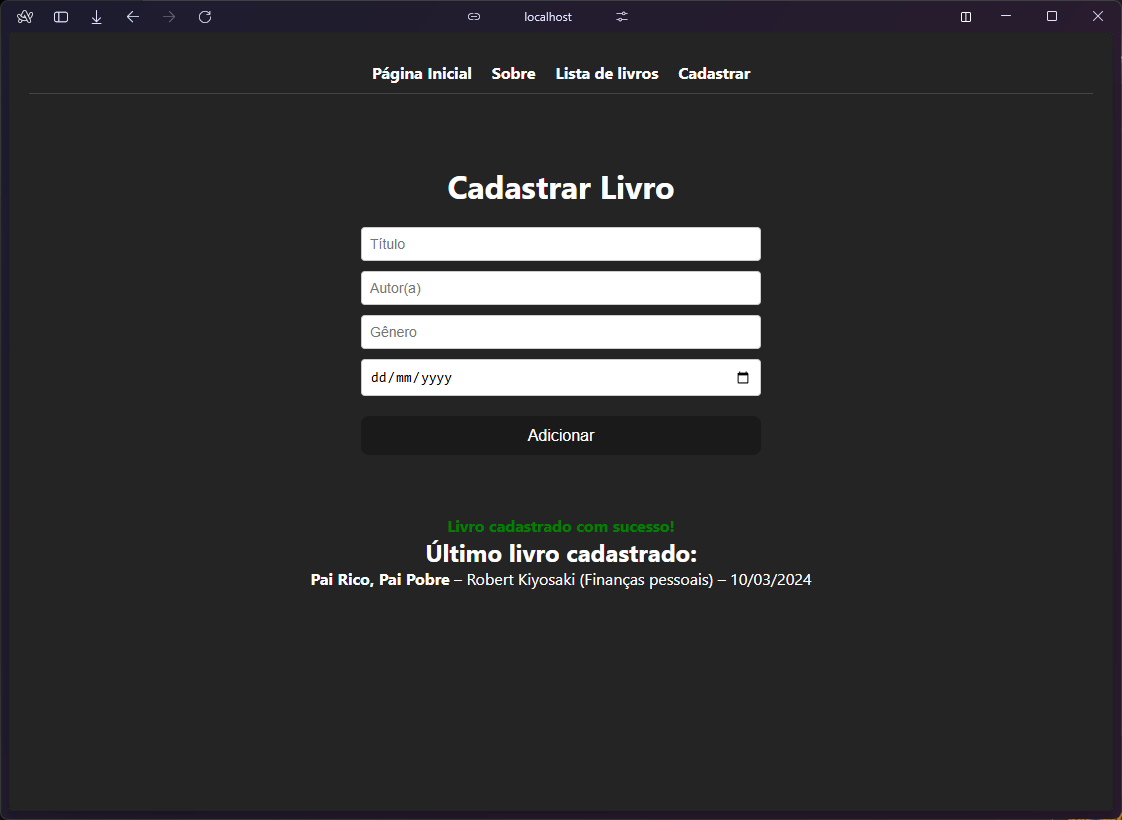
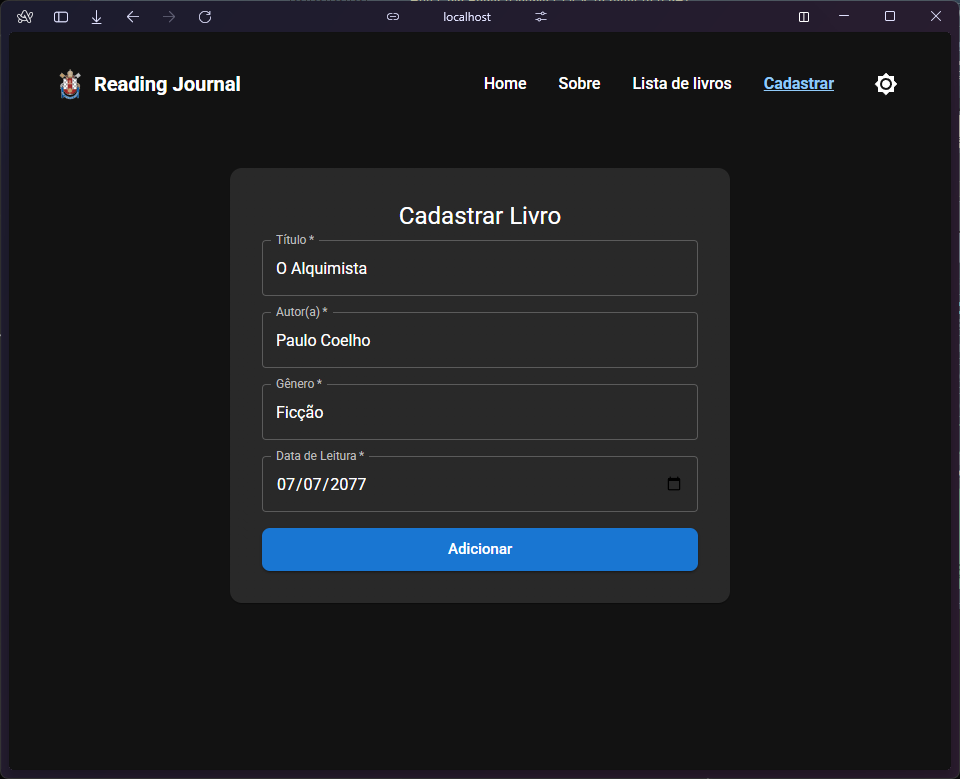
📝 docs: atualiza README com melhorias na descrição do projeto e funcionalidades

diff --git a/README.md b/README.md
@@ -1,7 +1,7 @@
 # Reading Journal 📚
 
 Este é um projeto desenvolvido para a **Fase 2** da disciplina de **Desenvolvimento de Sistemas Frontend** do curso de Análise e Desenvolvimento de Sistemas da PUCRS.  
-O objetivo foi criar um CRUD completo (Create, Read, Update, Delete) para um inventário de livros lidos, integrando com uma API REST fornecida pela instituição.
+O objetivo foi criar um CRUD completo (Create, Read, Update, Delete) para um inventário de livros lidos, com integração a uma API REST fornecida pela instituição e interface moderna utilizando Material UI.
 
 ## 👤 Aluno
 
@@ -12,10 +12,14 @@ Curso: Análise e Desenvolvimento de Sistemas – PUCRS Online
 
 - React
 - Vite
+- Material UI (MUI)
 - React Router DOM
 - Axios
 - JavaScript (ES6+)
-- CSS com suporte a tema escuro/claro adaptado ao sistema
+- Vitest (testes funcionais)
+- Modo Escuro/Claro com persistência local (tema dinâmico)
+- Snackbar com barra de progresso
+- Responsividade completa (NavBar adaptativa)
 
 ## 🚀 Como executar o projeto
 
@@ -63,53 +67,70 @@ Curso: Análise e Desenvolvimento de Sistemas – PUCRS Online
 
 ## 🧩 Funcionalidades implementadas
 
-- **Listagem de livros (GET)**  
-  Exibe todos os livros cadastrados na API com opção de editar ou excluir.
+- **Listagem de livros (GET)**
+  Exibe todos os livros cadastrados com busca dinâmica, botões de edição e exclusão.
 
-- **Cadastro de novo livro (POST)**  
-  Formulário com validação para adicionar um novo livro à API.
+- **Cadastro e Edição de livros (POST & PUT)**
+  Formulário com validações, foco automático, preenchimento em modo de edição e feedback com Snackbar.
 
-- **Edição de livro (PUT)**  
-  Ao clicar em "Editar", o formulário é preenchido com os dados do livro e permite atualizar.
+- **Exclusão de livro (DELETE)**
+  Remove o livro da API com notificação de sucesso (Snackbar com barra de tempo).
 
-- **Exclusão de livro (DELETE)**  
-  Remove o livro da lista e da base da API.
+- **Tema escuro/claro com botão de alternância**
+  Preferência do usuário é armazenada no `localStorage`.
 
-- **Feedback visual**  
-  Mensagens de sucesso e exibição do último livro cadastrado/atualizado.
+- **Barra de navegação responsiva com menu hambúrguer no mobile**
+
+- **Página Sobre com contexto do projeto e Página Home introdutória**
+
+- **Testes funcionais com Vitest e Testing Library**
+
+## 🧪 Testes
+
+Foram criados testes com `Vitest` e `@testing-library/react` para os principais componentes:
+
+- `BookList` — renderização de livros e exclusão
+- `BookForm` — validação e envio do formulário
+- `NavBar` — visibilidade e navegação dos links
+
+Para rodar os testes:
+
+```bash
+npm test
+```
 
 ## 📦 Componentes principais
 
-### BookForm
+### `BookForm`
 
-Formulário reutilizável para cadastro e edição.  
-Possui validações, foco automático e integrações com a API.
+Formulário reutilizável com MUI para cadastro e edição.  
+Validação, inputs controlados e integração com a API.
 
-### BookList
+### `BookList`
 
-Renderiza dinamicamente os livros obtidos via API.  
-Cada item contém botões de "Editar" e "Excluir".
+Renderiza dinamicamente os livros cadastrados.  
+Inclui botões para editar e excluir.
 
-### BookListPage
+### `BookListPage`
 
-Página principal da listagem.  
-Faz a requisição GET, exibe os livros e permite deletar.
+Página principal com campo de busca, listagem filtrada e botão para adicionar novo livro.
 
-### AddBook
+### `AddBook`
 
-Página que reutiliza o BookForm para cadastrar e atualizar livros via POST e PUT.
+Página com formulário para cadastrar ou atualizar um livro.  
+Exibe Snackbar animado com barra de progresso.
 
-### NavBar
+### `NavBar`
 
-Barra de navegação com links para as páginas: Home, Cadastro, Lista e Sobre.
+Barra de navegação responsiva, com links estilizados, menu hambúrguer e botão de alternância de tema.
 
 ## ✅ Observações
 
-- Os dados são consumidos dinamicamente da API com Axios.
-- Todas as operações estão integradas: GET, POST, PUT e DELETE.
-- Datas são formatadas no padrão brasileiro (DD/MM/AAAA).
-- Estilização com suporte a tema claro/escuro via `prefers-color-scheme`.
-- Projeto segue as instruções propostas pela disciplina e validações básicas de formulários.
+- Projeto utiliza somente Material UI para toda a interface.
+- Modo escuro/claro com tema global via `ThemeProvider`.
+- Snackbar com `LinearProgress` embutido.
+- Utilização de hooks personalizados como `usePageTitle`.
+- Código limpo, organizado por pastas e com tipagens adequadas.
 
 ## 🖼 Prints da aplicação
 
@@ -117,10 +138,16 @@ Barra de navegação com links para as páginas: Home, Cadastro, Lista e Sobre.
 
 ![Home](./src/assets/home.png)
 
+### Página de Lista de Livros
+
+![Lista](./src/assets/lista.png)
+
+### Página de Edição de Livro
+
+![Edição](./src/assets/edicao.png)
+
 ### Página de Cadastro
 
 ![Cadastro](./src/assets/cadastro.png)
 
-### Página de Lista de Livros
-
-![Lista](./src/assets/lista.png)
+![Cadastro1](./src/assets/cadastro1.png)
